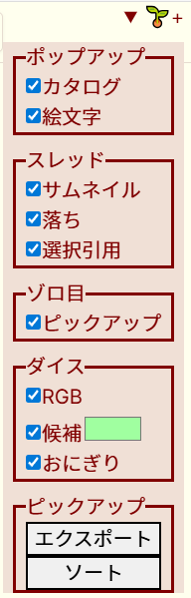
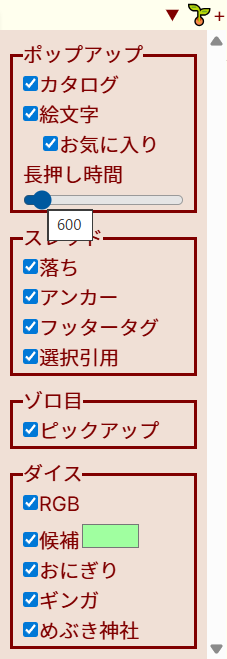
README: up to date

diff --git a/README.md b/README.md
@@ -2,6 +2,34 @@
 - Userscripts for [めぶき☆ちゃんねる](https://mebuki.moe/)
 
 ## Mebuki Plus
+
+### 機能
+- 設定<br><img alt="Settings" src="https://raw.githubusercontent.com/TakeAsh/MebukiChannel/refs/heads/main/MebukiPlus/img/Settings.png">
+- カタログポップアップ<br><img alt="CatalogPopup" src="https://raw.githubusercontent.com/TakeAsh/MebukiChannel/refs/heads/main/MebukiPlus/img/CatalogPopup.png">
+- 絵文字ポップアップ<br><img alt="EmojiPopup" src="https://raw.githubusercontent.com/TakeAsh/MebukiChannel/refs/heads/main/MebukiPlus/img/EmojiPopup.png">
+  - 絵文字長押しで、お気に入りへ追加
+- スレ落ち時刻, レス数表示<br><img alt="ThreadThumbnail" height="200" src="https://raw.githubusercontent.com/TakeAsh/MebukiChannel/refs/heads/main/MebukiPlus/img/ThreadThumbnail.jpg">
+- アンカー戻りリンク表示
+- フッターにタグを追加
+- スレタイトルポップアップ<br><img alt="ThreadTitlePopup" height="300" src="https://raw.githubusercontent.com/TakeAsh/MebukiChannel/refs/heads/main/MebukiPlus/img/ThreadTitlePopup.jpg">
+- レス選択で引用としてレス欄へコピペ
+- ゾロ目ピックアップ<br><img alt="ZoromePuckup" src="https://raw.githubusercontent.com/TakeAsh/MebukiChannel/refs/heads/main/MebukiPlus/img/ZoromePuckup.png">
+- ゾロ目必殺技コマンドピックアップ
+  - 昇竜拳(623, 421)<br><img alt="ShouryuKen" src="https://raw.githubusercontent.com/TakeAsh/MebukiChannel/refs/heads/main/MebukiPlus/img/ShouryuKen.png">
+  - 波動拳(236, 214)<br><img alt="HadouKen" src="https://raw.githubusercontent.com/TakeAsh/MebukiChannel/refs/heads/main/MebukiPlus/img/HadouKen.png">
+  - ヨガフレイム(426, 624)<br><img alt="YogaFlame" src="https://raw.githubusercontent.com/TakeAsh/MebukiChannel/refs/heads/main/MebukiPlus/img/YogaFlame.png">
+  - スクリューパイルドライバー(4.268, 6.248)<br><img alt="ScrewPileDriver" src="https://raw.githubusercontent.com/TakeAsh/MebukiChannel/refs/heads/main/MebukiPlus/img/ScrewPileDriver.png">
+- ダイス補助
+  - 選択結果強調表示(範囲指定対応, 複数選択可, 強調色指定可, ゾロ目)
+  - RGB値可視化
+  - おにぎりダブルアップチャンス！！<br>このおにぎりWアップチャンスは出た目の２乗個が貰えます。<br>目が100なら、１万個のおにぎりが貰えます……
+  - ギンガダイス
+  - めぶき神社
+  - 例<br><img alt="DiceSupport" src="https://raw.githubusercontent.com/TakeAsh/MebukiChannel/refs/heads/main/MebukiPlus/img/DiceSupport.png"><br><img alt="GingaDice" src="https://raw.githubusercontent.com/TakeAsh/MebukiChannel/refs/heads/main/MebukiPlus/img/GingaDice.png"><br><img alt="MebukiShrine" src="https://raw.githubusercontent.com/TakeAsh/MebukiChannel/refs/heads/main/MebukiPlus/img/MebukiShrine.png">
+- カタログピックアップワード/タグのエクスポート, ソート<br><img alt="PickupWordsTags" src="https://raw.githubusercontent.com/TakeAsh/MebukiChannel/refs/heads/main/MebukiPlus/img/PickupWordsTags.png">
+- お気に入り絵文字の並べ替え, エクスポート, インポート, マージ<br><img alt="FavoriteEmojis" src="https://raw.githubusercontent.com/TakeAsh/MebukiChannel/refs/heads/main/MebukiPlus/img/FavoriteEmojis.png">
+
+### インストール
 - [本体ソース](https://github.com/TakeAsh/MebukiChannel/blob/main/MebukiPlus/MebukiPlus.user.js)
   - TamperMonkey用ユーザースクリプト
   - 右の`Raw`ってボタン押すとインストールするかどうか聞かれるのでインストールを選択
@@ -19,22 +47,16 @@ Mebuki Plus スクリプトをスマホで動かす
   1. 途中でURLの候補が表示されるのでそれをタップ<br><img alt="03" height="400" src="https://raw.githubusercontent.com/TakeAsh/MebukiChannel/refs/heads/main/MebukiPlus/img/Bookmarklet03.jpg">
   1. 適用完了<br><img alt="04" height="400" src="https://raw.githubusercontent.com/TakeAsh/MebukiChannel/refs/heads/main/MebukiPlus/img/Bookmarklet04.jpg">
 
+## めぶき・おん・ざ・めぶきち
+
 ### 機能
-- 設定<br><img alt="Settings" src="https://raw.githubusercontent.com/TakeAsh/MebukiChannel/refs/heads/main/MebukiPlus/img/Settings.png">
-- カタログポップアップ<br><img alt="CatalogPopup" src="https://raw.githubusercontent.com/TakeAsh/MebukiChannel/refs/heads/main/MebukiPlus/img/CatalogPopup.png">
-- 絵文字ポップアップ<br><img alt="EmojiPopup" src="https://raw.githubusercontent.com/TakeAsh/MebukiChannel/refs/heads/main/MebukiPlus/img/EmojiPopup.png">
-- スレッドサムネイル表示, favicon表示, スレ落ち時刻, レス数表示<br><img alt="ThreadThumbnail" height="200" src="https://raw.githubusercontent.com/TakeAsh/MebukiChannel/refs/heads/main/MebukiPlus/img/ThreadThumbnail.jpg">
-- スレタイトルポップアップ<br><img alt="ThreadTitlePopup" height="300" src="https://raw.githubusercontent.com/TakeAsh/MebukiChannel/refs/heads/main/MebukiPlus/img/ThreadTitlePopup.jpg">
-- レス選択で引用としてレス欄へコピペ
-- ゾロ目ピックアップ<br><img alt="ZoromePuckup" src="https://raw.githubusercontent.com/TakeAsh/MebukiChannel/refs/heads/main/MebukiPlus/img/ZoromePuckup.png">
-- ゾロ目必殺技コマンドピックアップ
-  - 昇竜拳(623, 421)<br><img alt="ShouryuKen" src="https://raw.githubusercontent.com/TakeAsh/MebukiChannel/refs/heads/main/MebukiPlus/img/ShouryuKen.png">
-  - 波動拳(236, 214)<br><img alt="HadouKen" src="https://raw.githubusercontent.com/TakeAsh/MebukiChannel/refs/heads/main/MebukiPlus/img/HadouKen.png">
-  - ヨガフレイム(426, 624)<br><img alt="YogaFlame" src="https://raw.githubusercontent.com/TakeAsh/MebukiChannel/refs/heads/main/MebukiPlus/img/YogaFlame.png">
-  - スクリューパイルドライバー(4.268, 6.248)<br><img alt="ScrewPileDriver" src="https://raw.githubusercontent.com/TakeAsh/MebukiChannel/refs/heads/main/MebukiPlus/img/ScrewPileDriver.png">
-- ダイス補助
-  - 選択結果強調表示(範囲指定対応, 複数選択可, 強調色指定可)
-  - RGB値可視化
-  - おにぎりダブルアップチャンス！！<br>このおにぎりWアップチャンスは出た目の２乗個が貰えます。<br>目が100なら、１万個のおにぎりが貰えます……
-  - 例<br><img alt="DiceSupport" src="https://raw.githubusercontent.com/TakeAsh/MebukiChannel/refs/heads/main/MebukiPlus/img/DiceSupport.png">
-- カタログピックアップワードのエクスポート, ソート
+- めぶきちたちがマウスポインタを追い掛ける<br><img alt="Mebukichi3" src="https://raw.githubusercontent.com/TakeAsh/MebukiChannel/refs/heads/main/Mebukichi/img/Mebukichi3.gif"> <img alt="Warukichi" src="https://raw.githubusercontent.com/TakeAsh/MebukiChannel/refs/heads/main/Mebukichi/img/WarukichiFull.gif">
+- レス以外の場所をダブルクリックで設定メニュー表示<br><img alt="Settings" src="https://raw.githubusercontent.com/TakeAsh/MebukiChannel/refs/heads/main/Mebukichi/img/Settings.png">
+- 特定のページまたは特定のタグを含むスレでめぶきちたちを呼べる<br>`すべて` にチェックを入れると全ページでめぶきちたちが来る
+
+### インストール
+- [本体ソース](https://github.com/TakeAsh/MebukiChannel/blob/main/Mebukichi/Mebukichi.user.js)
+  - TamperMonkey用ユーザースクリプト
+  - 右の「Raw」ってボタン押すとインストールするかどうか聞かれるのでインストールを選択
+  - 本番環境ヨシ！
+- [Bookmarklet](https://github.com/TakeAsh/MebukiChannel/blob/main/Mebukichi/Mebukichi.bookmarklet.js)
